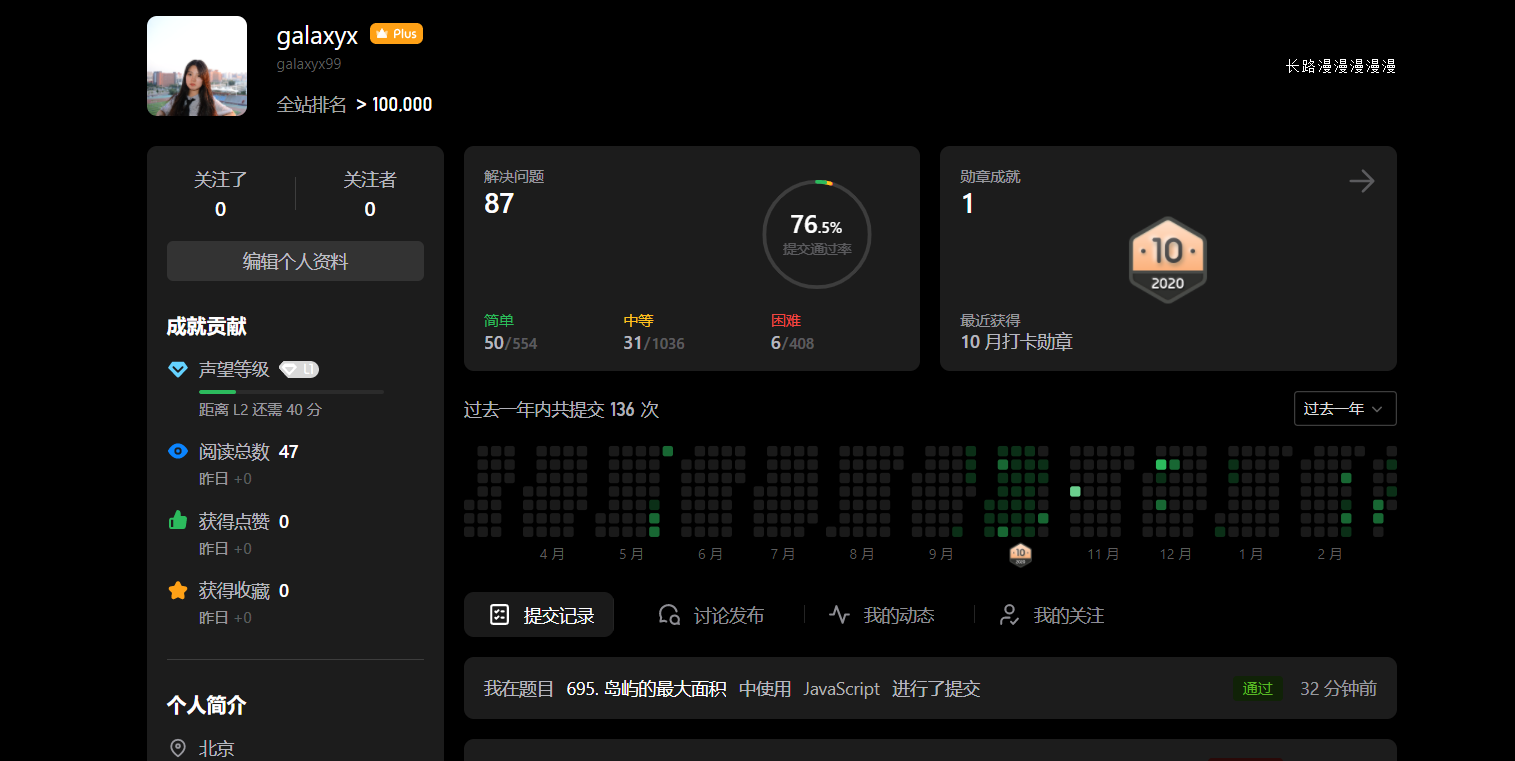
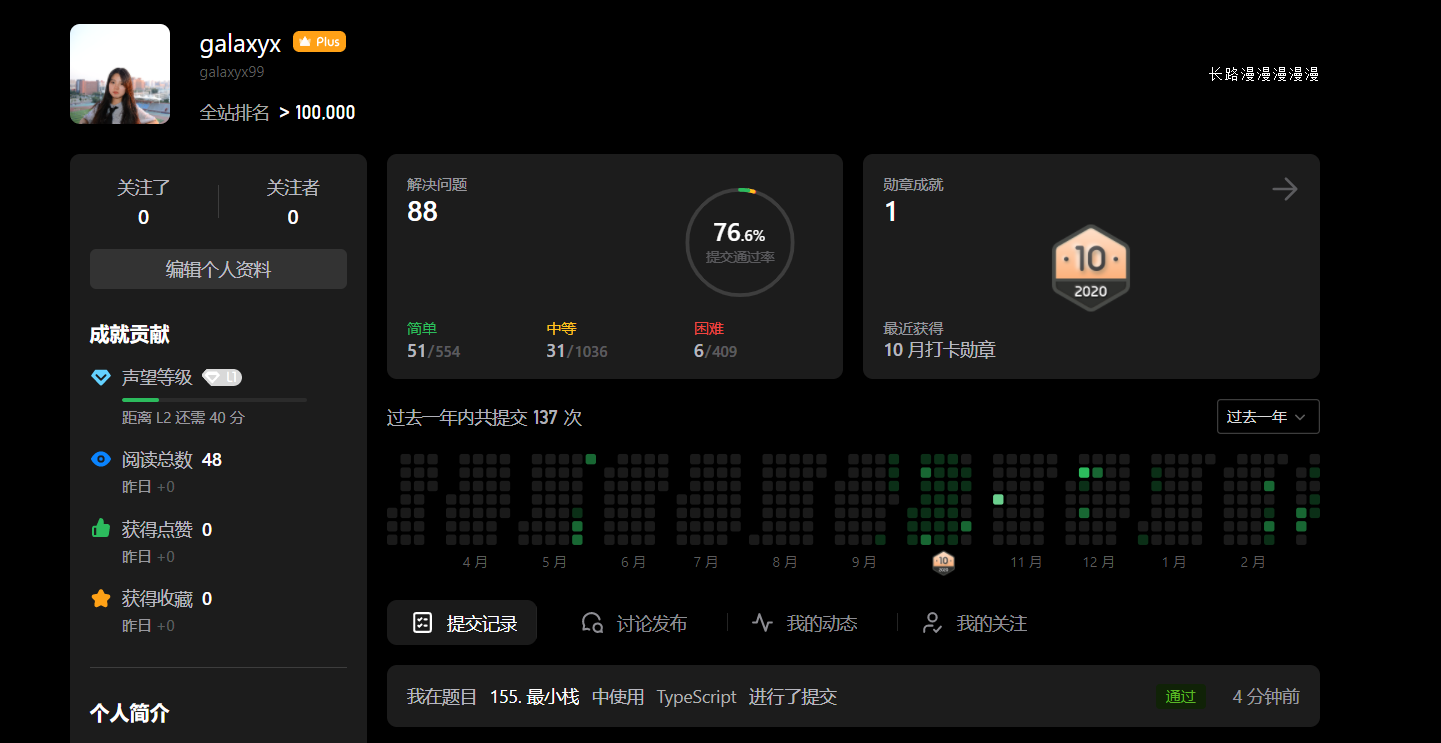
clock in 311

Changed region(s): [[0.0312, 0.0, 0.9368, 1.0], [0.7183, 0.2786, 0.8119, 0.4334], [0.8432, 0.0619, 0.9368, 0.1238]]

diff --git a/leetcode/Q155.md b/leetcode/Q155.md
@@ -1,0 +1,70 @@
+# 155 Min Stack
+
+![img](./img/GTAlgorithm.png)
+![img](./img/clockIn311.png)
+
+## Description
+
+Design a stack that supports push, pop, top, and retrieving the minimum element in constant time.
+
+- push(x) -- Push element x onto stack.
+- pop() -- Removes the element on top of the stack.
+- top() -- Get the top element.
+- getMin() -- Retrieve the minimum element in the stack.
+
+## Example
+
+### Input
+
+["MinStack","push","push","push","getMin","pop","top","getMin"]
+[[],[-2],[0],[-3],[],[],[],[]]
+
+### Output
+
+[null,null,null,null,-3,null,0,-2]
+
+## Solution
+
+Main: Based on **Array** and a **single value** to save minimum
+
+Tips:
+
+- TypeScript is a good choice for this problem owing to its strict limitation on data type.
+- To refresh the minimum , we need to update the min when `push` and `pop`
+- I was lazy on getting minimum in pop function. It just calls library function.
+
+## Code
+
+```typescript
+class MinStack {
+
+    stack: Array<number>
+    min: number
+
+    constructor(){
+        this.stack = []
+        this.min = Infinity
+    }
+
+    push(x: number): void{
+        this.stack.push(x)
+        if(x < this.min) this.min = x;
+    }
+
+    pop(): void{
+        this.stack.pop()
+        this.min = Math.min(...this.stack)
+    }
+
+    top(): number {
+        return this.stack[this.stack.length - 1];
+    }
+
+    getMin(): number{
+        return this.min;
+    }
+
+}
+
+```
+

diff --git a/leetcode/Q695.md b/leetcode/Q695.md
@@ -3,7 +3,7 @@
 ---
 
 ![img](./img/GTAlgorithm.png)
-![img](./img/clockIn311.png)
+![img](./img/clockIn310.png)
 
 ## Description
 
